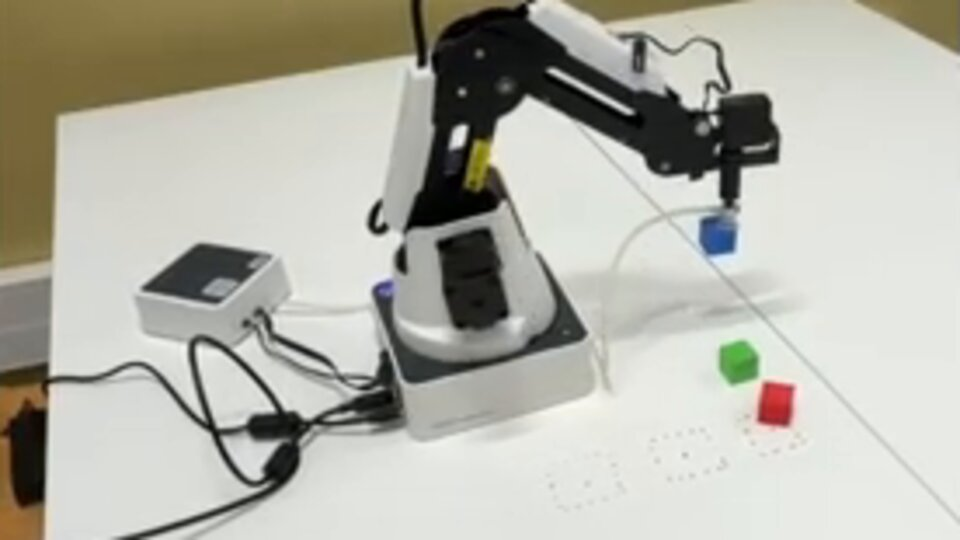
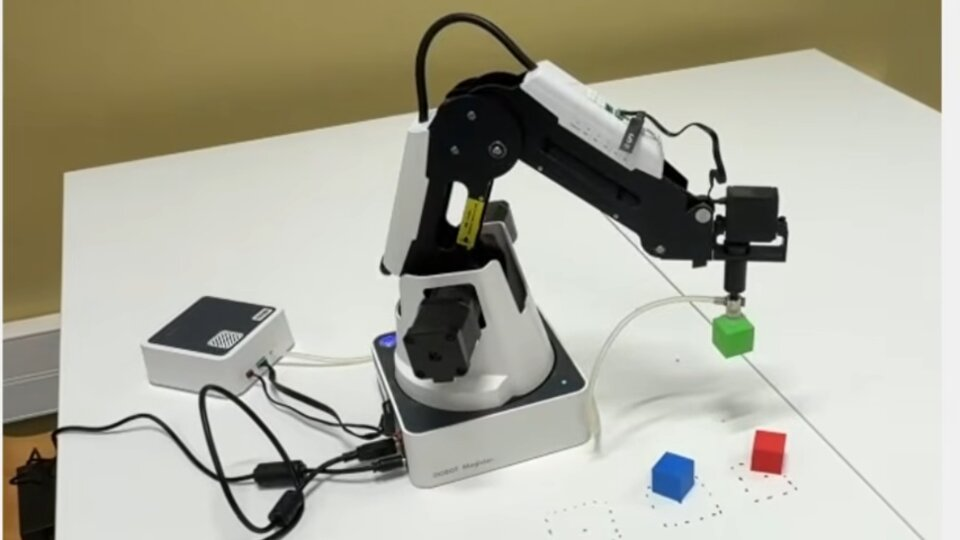
Same media size in every table and physical Dobot photo

diff --git a/Docs/robot-world-status.md b/Docs/robot-world-status.md
@@ -52,7 +52,7 @@ Launch paths are relative to `CustomRobots/`. Every noise/sensor variant is a ro
 
 The scene is of type `physical`, no simulator runs. The robot launch file brings the real robot topics into ROS2 with the same names as its simulated twin, so the same HAL works on both. Every physical scene uses `physical.launch.py`.
 
-| Robot              | Status | Media | Simulated twin     | Launch file                                          | Scene                     | Connection                                             | Notes                                              |
+| Robot              | Status | Media&nbsp;&nbsp;&nbsp;&nbsp;&nbsp;&nbsp;&nbsp;&nbsp;&nbsp;&nbsp;&nbsp;&nbsp;&nbsp;&nbsp;&nbsp;&nbsp;&nbsp;&nbsp;&nbsp;&nbsp;&nbsp;&nbsp;&nbsp;&nbsp;&nbsp;&nbsp;&nbsp;&nbsp;&nbsp;&nbsp;&nbsp;&nbsp;&nbsp;&nbsp;&nbsp;&nbsp; | Simulated twin     | Launch file                                          | Scene                     | Connection                                             | Notes                                              |
 | ------------------ | :----: | :---: | ------------------ | ---------------------------------------------------- | ------------------------- | ------------------------------------------------------ | -------------------------------------------------- |
 | UR5 / UR5e         |   ok   | <img src="media/robots/ur5e_physical.jpg" width="160"> | UR5 | robot_arms/launch/ur5_physical.launch.py | Ur5 Physical | Ethernet (`ur_robot_driver`), ports 50001-50004 back to the PC | Tested with a UR5e in the lab, `ur5_bridge` drives the gripper |
 | Dobot Magician     |   ok   | <a href="https://www.youtube.com/watch?v=iZGmwDLkJz8"><img src="media/robots/dobot_magician_physical.jpg" width="160"></a> | Dobot Magician | robot_arms/launch/dobot_magician_physical.launch.py | Dobot Magician Physical | USB serial, host `/dev` mapped into the container | Suction cup, `dobot_magician_bridge` talks to the firmware |
@@ -67,7 +67,7 @@ Launch files live in `/opt/jderobot/Launchers`. "Robots" lists the robots the da
 
 ### Circuits and roads
 
-| Scene               | Status | Media | Launch file                   | Robots                    | Notes |
+| Scene               | Status | Media&nbsp;&nbsp;&nbsp;&nbsp;&nbsp;&nbsp;&nbsp;&nbsp;&nbsp;&nbsp;&nbsp;&nbsp;&nbsp;&nbsp;&nbsp;&nbsp;&nbsp;&nbsp;&nbsp;&nbsp;&nbsp;&nbsp;&nbsp;&nbsp;&nbsp;&nbsp;&nbsp;&nbsp;&nbsp;&nbsp;&nbsp;&nbsp;&nbsp;&nbsp;&nbsp;&nbsp; | Launch file                   | Robots                    | Notes |
 | ------------------- | :----: | :---: | ----------------------------- | ------------------------- | ----- |
 | Simple Circuit      |   ok   | <img src="media/scenes/simple_circuit.jpg" width="160"> | simple_circuit.launch.py      | F1                        |       |
 | Montmelo Circuit    |   ok   | <img src="media/scenes/montmelo_circuit.jpg" width="160"> | montmelo_circuit.launch.py    | F1                        |       |
@@ -87,7 +87,7 @@ Launch files live in `/opt/jderobot/Launchers`. "Robots" lists the robots the da
 
 ### Houses and indoor
 
-| Scene                 | Status | Media | Launch file                         | Robots                          | Notes                       |
+| Scene                 | Status | Media&nbsp;&nbsp;&nbsp;&nbsp;&nbsp;&nbsp;&nbsp;&nbsp;&nbsp;&nbsp;&nbsp;&nbsp;&nbsp;&nbsp;&nbsp;&nbsp;&nbsp;&nbsp;&nbsp;&nbsp;&nbsp;&nbsp;&nbsp;&nbsp;&nbsp;&nbsp;&nbsp;&nbsp;&nbsp;&nbsp;&nbsp;&nbsp;&nbsp;&nbsp;&nbsp;&nbsp; | Launch file                         | Robots                          | Notes                       |
 | --------------------- | :----: | :---: | ----------------------------------- | ------------------------------- | --------------------------- |
 | Small House           |   ok   | <img src="media/scenes/small_house.jpg" width="160"> | small_house.launch.py               | Vacuum cleaner, TurtleBot 3 Burger |                          |
 | Small House Roof      |   ok   | <img src="media/scenes/small_house_roof.jpg" width="160"> | small_house_roof.launch.py          | Vacuum cleaner (camera)         |                             |
@@ -104,7 +104,7 @@ Launch files live in `/opt/jderobot/Launchers`. "Robots" lists the robots the da
 
 ### Warehouses and logistics
 
-| Scene                         | Status | Media | Launch file                             | Robots                                              | Notes                                |
+| Scene                         | Status | Media&nbsp;&nbsp;&nbsp;&nbsp;&nbsp;&nbsp;&nbsp;&nbsp;&nbsp;&nbsp;&nbsp;&nbsp;&nbsp;&nbsp;&nbsp;&nbsp;&nbsp;&nbsp;&nbsp;&nbsp;&nbsp;&nbsp;&nbsp;&nbsp;&nbsp;&nbsp;&nbsp;&nbsp;&nbsp;&nbsp;&nbsp;&nbsp;&nbsp;&nbsp;&nbsp;&nbsp; | Launch file                             | Robots                                              | Notes                                |
 | ----------------------------- | :----: | :---: | --------------------------------------- | --------------------------------------------------- | ------------------------------------ |
 | Warehouse 1                   |   ok   | <img src="media/scenes/warehouse1.jpg" width="160"> | warehouse1.launch.py                    | Logistic Holonomic, Logistic Ackermann, MiR100      |                                      |
 | Warehouse 1 Nav2              |   ok   | <img src="media/scenes/warehouse1.jpg" width="160"> | warehouse1_nav2.launch.py               | Logistic Holonomic                                  | Same world as Warehouse 1, with Nav2 |
@@ -118,7 +118,7 @@ Launch files live in `/opt/jderobot/Launchers`. "Robots" lists the robots the da
 
 ### Drones
 
-| Scene                  | Status | Media | Launch file                         | Robots                          | Notes |
+| Scene                  | Status | Media&nbsp;&nbsp;&nbsp;&nbsp;&nbsp;&nbsp;&nbsp;&nbsp;&nbsp;&nbsp;&nbsp;&nbsp;&nbsp;&nbsp;&nbsp;&nbsp;&nbsp;&nbsp;&nbsp;&nbsp;&nbsp;&nbsp;&nbsp;&nbsp;&nbsp;&nbsp;&nbsp;&nbsp;&nbsp;&nbsp;&nbsp;&nbsp;&nbsp;&nbsp;&nbsp;&nbsp; | Launch file                         | Robots                          | Notes |
 | ---------------------- | :----: | :---: | ----------------------------------- | ------------------------------- | ----- |
 | Rescue People          |   ok   | <img src="media/scenes/rescue_people.jpg" width="160"> | rescue_people.launch.py             | Quadrotor                       |       |
 | Follow Road            |   ok   | <img src="media/scenes/follow_road.jpg" width="160"> | follow_road.launch.py               | Quadrotor                       |       |
@@ -137,7 +137,7 @@ Launch files live in `/opt/jderobot/Launchers`. "Robots" lists the robots the da
 
 ### Industrial
 
-| Scene                | Status | Media | Launch file                  | Robots          | Notes                  |
+| Scene                | Status | Media&nbsp;&nbsp;&nbsp;&nbsp;&nbsp;&nbsp;&nbsp;&nbsp;&nbsp;&nbsp;&nbsp;&nbsp;&nbsp;&nbsp;&nbsp;&nbsp;&nbsp;&nbsp;&nbsp;&nbsp;&nbsp;&nbsp;&nbsp;&nbsp;&nbsp;&nbsp;&nbsp;&nbsp;&nbsp;&nbsp;&nbsp;&nbsp;&nbsp;&nbsp;&nbsp;&nbsp; | Launch file                  | Robots          | Notes                  |
 | -------------------- | :----: | :---: | ---------------------------- | --------------- | ---------------------- |
 | Pick And Place       |   ok   | <a href="https://www.youtube.com/watch?v=6AJ77qydej4"><img src="media/scenes/pick_place.jpg" width="160"></a> | pick_place.launch.py         | UR5             | Reset broken           |
 | Machine Vision       |   ok   | <img src="media/scenes/machine_vision.jpg" width="160"> | machine_vision.launch.py     | UR5 (camera)    | Reset broken           |
